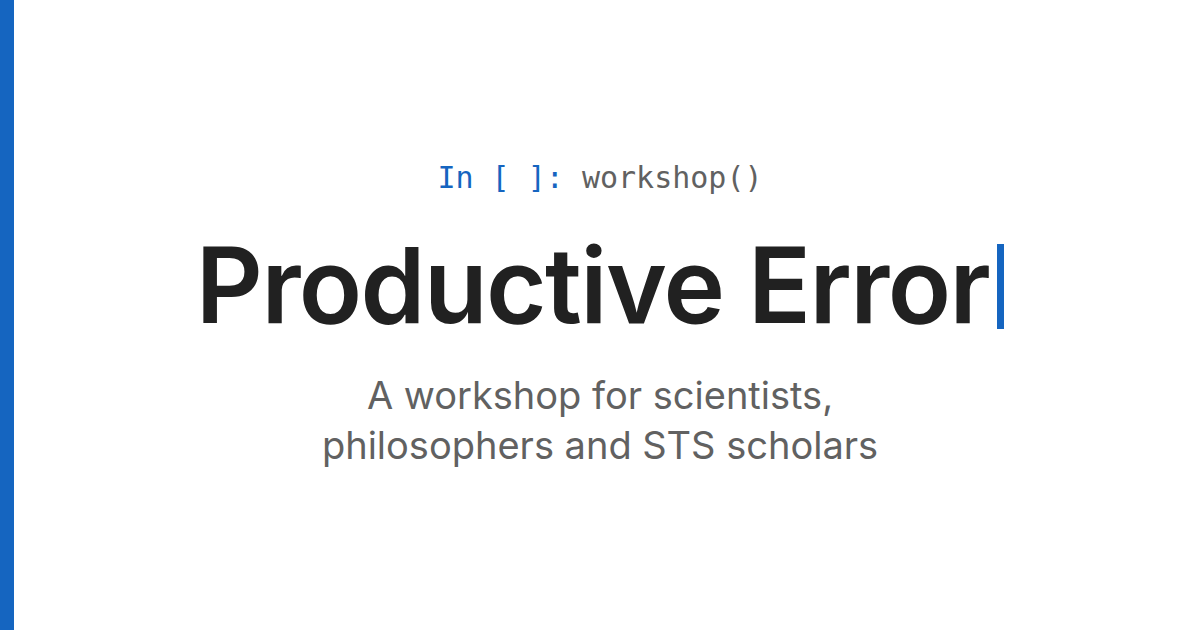
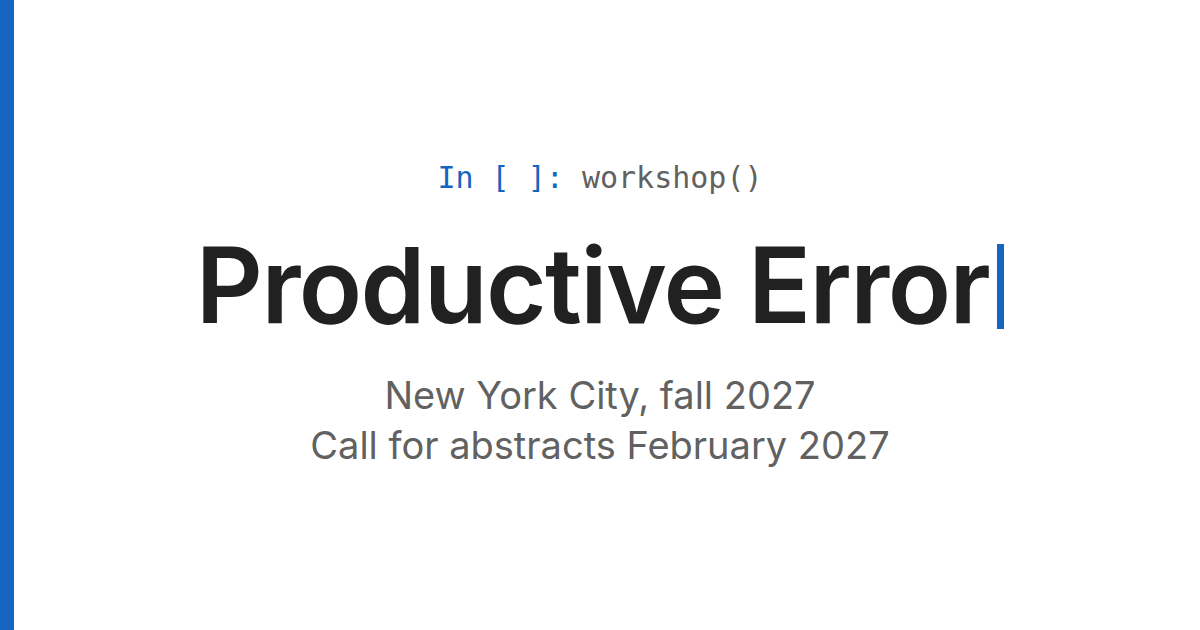
Workshop card facts, Privacy page, one GoatCounter copy, no RSS, layout fixes
- Workshop card and description say when and where (New York City, fall
  2027; call for abstracts February 2027). Card subtitles now break at " · ".
- GoatCounter snippet lives once, in notebook-loader.html.
- New Privacy page, linked in the footer, replaces the Accessibility line.
- RSS feed removed from News.
- Homepage closing buttons share one width on phones; "2026–2028" no longer
  breaks; About's Take part buttons line up across each row.

Changed region(s): [[0.2467, 0.6032, 0.74, 0.754]]

diff --git a/_social-cards/card.html b/_social-cards/card.html
@@ -19,6 +19,7 @@
   .label .in { color: var(--nb-in-prompt); }
   .title { font-weight: 600; letter-spacing: -0.015em; line-height: 1.08; margin: 0; max-width: 980px; text-wrap: balance; }
   .sub { font-size: 38px; line-height: 1.3; color: var(--nb-text-muted); margin: 30px 0 0; max-width: 900px; text-wrap: balance; }
+  .sub .part { display: inline-block; }
   .cur { display: inline-block; width: 7px; height: .82em; background: var(--nb-brand); vertical-align: -.06em; margin-left: 8px; }
   .home .title { font-size: 76px; line-height: 1.14; font-weight: 500; letter-spacing: -0.01em; }
   .no { color: var(--nb-text-muted); text-decoration: line-through; text-decoration-color: var(--nb-red); text-decoration-thickness: 6px; }
@@ -60,7 +61,15 @@
     }
     title.append(el("span", "cur"));
     w.append(title);
-    if (spec.sub) { sub = el("p", "sub", spec.sub); w.append(sub); }
+    if (spec.sub) {
+      // Each " · " part is kept together where it fits, so two lines break at the dot.
+      sub = el("p", "sub");
+      spec.sub.split(" · ").forEach(function (part, i) {
+        if (i) sub.append(" ", el("span", "sep", "·"), " ");
+        sub.append(el("span", "part", part));
+      });
+      w.append(sub);
+    }
 
     await document.fonts.load("600 64px CardSans");
     await document.fonts.load("30px CardMono");
@@ -74,6 +83,12 @@
         if (lines(title) <= MAX_TITLE_LINES) break;
       }
     }
+
+    // A dot left at the end of a line is dropped; the line break separates the parts.
+    if (sub) sub.querySelectorAll(".sep").forEach(function (sep) {
+      var next = sep.nextElementSibling;
+      if (next.getBoundingClientRect().top > sep.getBoundingClientRect().top + 1) sep.style.display = "none";
+    });
 
     var box = null, overflow = [];
     Array.prototype.forEach.call(w.children, function (c) {

diff --git a/notebook.scss b/notebook.scss
@@ -531,6 +531,9 @@ main.content { margin-bottom: 0; }
 }
 
 .cell-actions > p { display: contents; } /* Pandoc wraps inline content in <p> */
+/* An email button is a link inside .email-obfuscate; make the link the flex
+   item, so it sizes like the other buttons (full width on phones). */
+.cell-actions .email-obfuscate { display: contents; }
 
 /* Under the hero buttons, on its own line. */
 .cell-actions:has(+ #latest-news) { margin-bottom: var(--nb-space-4); }
@@ -1265,6 +1268,16 @@ html.has-notebook-js .code-cell:not(.is-revealed) .output-prompt {
 }
 
 .take-part { grid-template-columns: repeat(2, minmax(0, 1fr)); }
+/* Each card is heading, text, button and (sometimes) small print. Sharing
+   those rows with the card beside it puts both buttons on one line, even
+   when only one card has small print under its button. */
+.take-part .project-card {
+  display: grid;
+  grid-row: span 4;
+  grid-template-rows: subgrid;
+  row-gap: 0;
+}
+.take-part .project-card > p:has(> .button, > .email-obfuscate) { margin: 0; }
 
 .ack-list {
   display: grid;

diff --git a/notebook-loader.html b/notebook-loader.html
@@ -11,3 +11,7 @@
     document.body.append(script);
   })();
 </script>
+<!-- Visit counts (GoatCounter): no cookies, no personal data. Ad blockers often
+     block it, so read the numbers as trends, not totals. -->
+<script data-goatcounter="https://dan-li-o.goatcounter.com/count"
+        async src="//gc.zgo.at/count.js"></script>

diff --git a/_social-cards/make_cards.py b/_social-cards/make_cards.py
@@ -109,13 +109,6 @@ def snake(text):
     return re.sub(r"[^a-z0-9]+", "_", text.lower()).strip("_")
 
 
-def lower_first(text):
-    """"The team" -> "the team", but leaves "AI-driven" and "STS" alone."""
-    first = text.split(" ", 1)[0]
-    plain = first[1:].islower() if len(first) > 1 else first != "I"
-    return text[0].lower() + text[1:] if plain else text
-
-
 def home_spec(index_qmd):
     """The homepage card is its headline, with the word the page types first struck out."""
     h1 = re.search(r'<h1[^>]*data-type-wrong="([^"]+)"[^>]*>.*?class="hero-type-final">(.*?)</span>', index_qmd, re.S)
@@ -129,7 +122,7 @@ def home_spec(index_qmd):
 
 def card_alt(spec):
     if spec["title"] == SITE_TITLE:
-        return f"{SITE_TITLE}: {lower_first(spec['sub'])}" if spec.get("sub") else SITE_TITLE
+        return f"{SITE_TITLE}: {spec['sub']}" if spec.get("sub") else SITE_TITLE
     return f"{spec['title']}. {spec['sub']}" if spec.get("sub") else spec["title"]
 
 

diff --git a/README.md b/README.md
@@ -16,8 +16,7 @@ other pages are plain reading pages in the same style.
 - The homepage cells are hand-written divs in `index.qmd`; a comment at the
   top of that file explains how to edit them.
 - **News:** add a file to `news/` named `YYYY-MM-DD-short-name.qmd` with a
-  `title`, `date` and `description`. The News page lists posts newest first
-  and builds an RSS feed (`news.xml`).
+  `title`, `date` and `description`. The News page lists posts newest first.
 - **Email addresses** are never written out in full. Use
   `<span class="email-obfuscate" data-user="name" data-domain="example.org">name [at] example.org</span>`.
   Optional attributes turn it into a prefilled email: `data-subject`,
